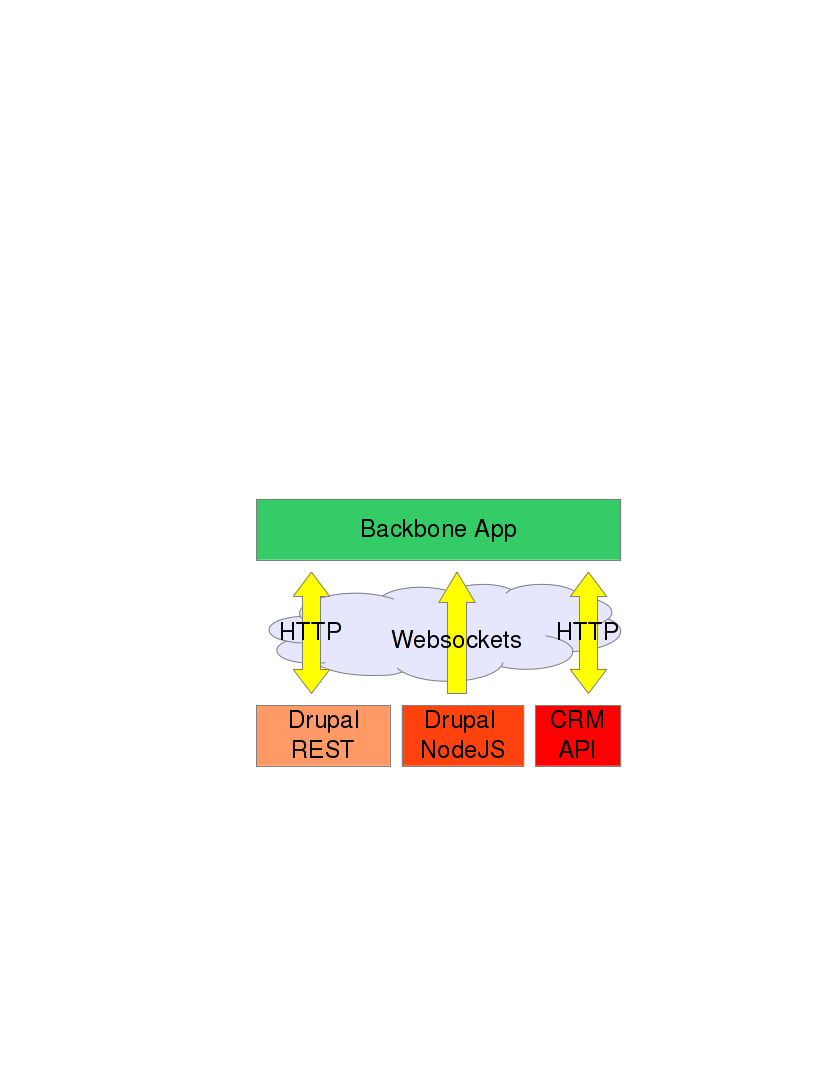
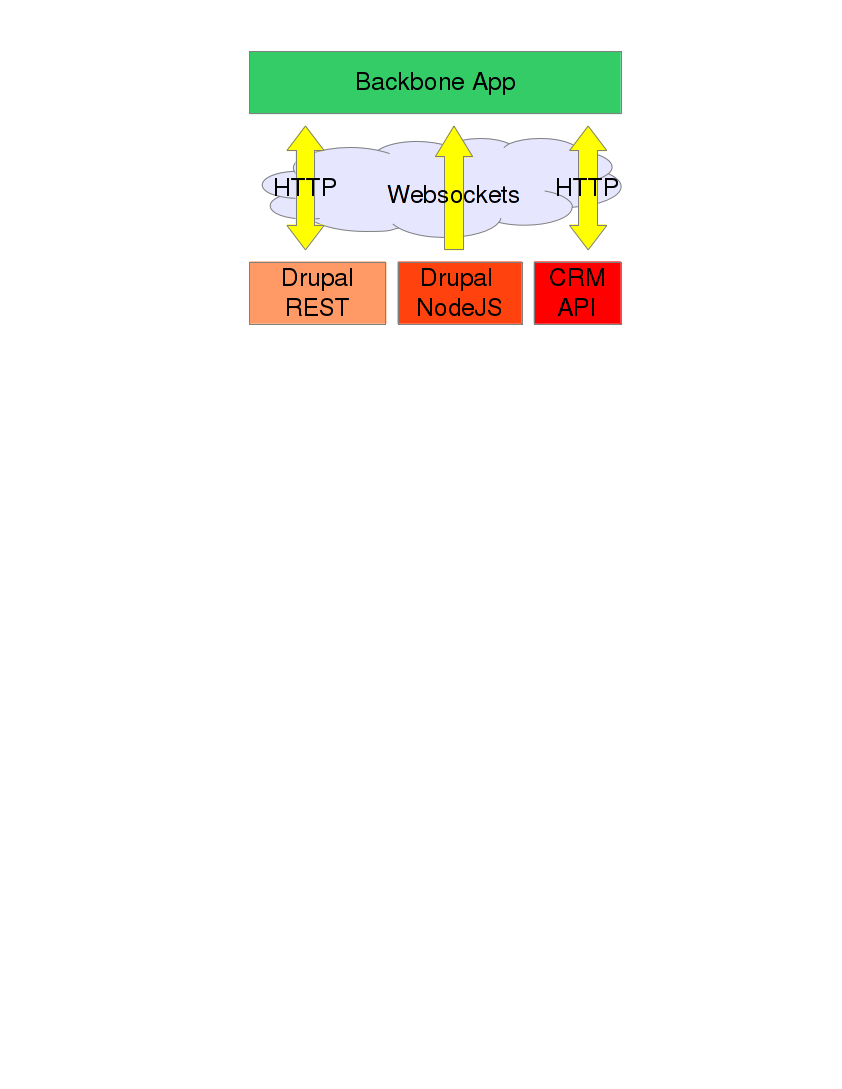
Fixed images

Changed region(s): [[0.2727, 0.0309, 0.7576, 0.3093], [0.303, 0.4639, 0.7576, 0.7423]]

diff --git a/drupalcon-denver-backbone-bof/index.html b/drupalcon-denver-backbone-bof/index.html
@@ -155,7 +155,7 @@
 </div>
       <div class='step' >
     
-<p><img src="Drupal%20Backbone%20App%20Structure.svg" alt="Drupal Backbone App"></p>
+<p><img src="Drupal%20Backbone%20App%20Structure.png" alt="Drupal Backbone App"></p>
 </div>
       <div class='step' >
     
@@ -333,7 +333,7 @@
 </div>
       <div class='step' >
     
-<p><img src="Promiscuous%20Backbone%20Architecture.svg" alt="Drupal Backbone Promiscous Architecture"></p>
+<p><img src="Promiscuous%20Backbone%20Architecture.png" alt="Drupal Backbone Promiscous Architecture"></p>
 </div>
       <div class='step' >
     
